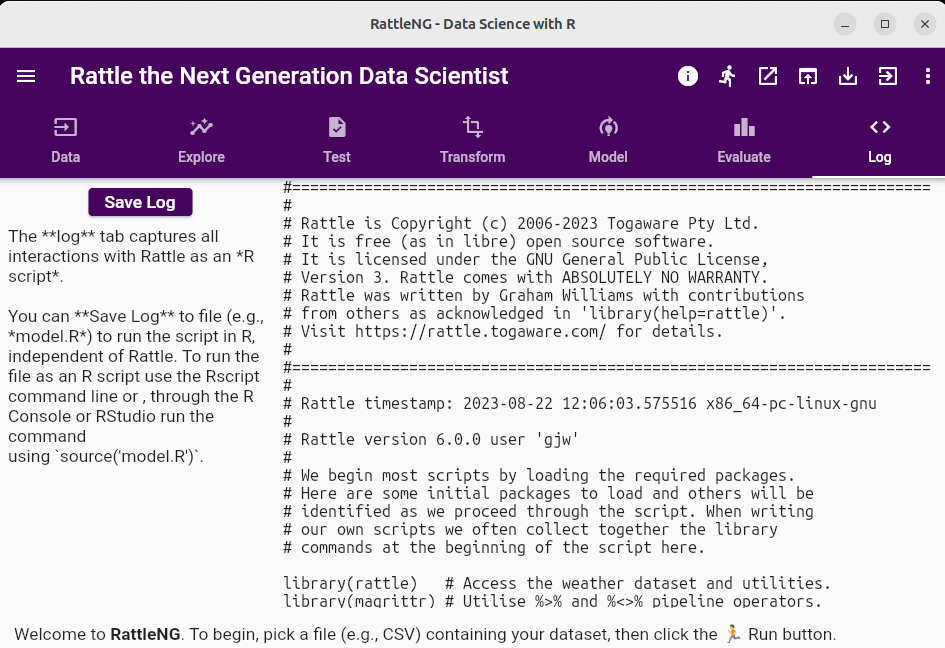
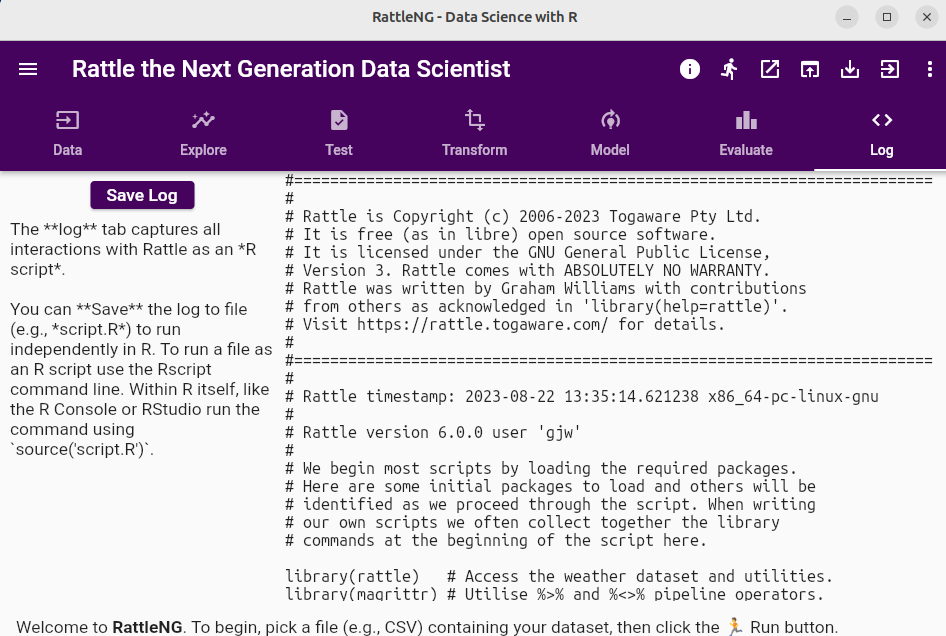
Updates to the README - more screenshots

diff --git a/lib/pages/data_tab.dart b/lib/pages/data_tab.dart
@@ -5,7 +5,7 @@
 /// License: https://www.gnu.org/licenses/gpl-3.0.en.html
 ///
 //
-// Time-stamp: <Monday 2023-08-21 19:35:10 +1000 Graham Williams>
+// Time-stamp: <Tuesday 2023-08-22 12:41:48 +1000 Graham Williams>
 //
 // Licensed under the GNU General Public License, Version 3 (the "License");
 //
@@ -56,6 +56,10 @@ class _DataTabPageState extends State<DataTabPage> {
         children: [
           Row(
             children: [
+              // Some fixed space so the widgets aren't crowded.
+
+              SizedBox(width: 5),
+
               // Widget to select the dataset filename.
 
               FilePickerDS(),

diff --git a/assets/markdown/log_intro.md b/assets/markdown/log_intro.md
@@ -1,6 +1,6 @@
 The **log** tab captures all interactions with Rattle as an *R script*.
 
-You can **Save Log** to file (e.g., *model.R*) to run the script in R,
-independent of Rattle. To run the file as an R script use the Rscript
-command line or , through the R Console or RStudio run the command
-using `source('model.R')`.
+You can **Save** the log to file (e.g., *script.R*) to run
+independently in R. To run a file as an R script use the Rscript
+command line. Within R itself, like the R Console or RStudio run the
+command using `source('script.R')`.

diff --git a/README.md b/README.md
@@ -10,6 +10,14 @@ be utilised in RattleNG for its powerful functionality.
 
 Some teasers:
 
-![](assets/screenshots/home_page.png)
+**The traditional Rattle Welcome**
+
+![](assets/screenshots/data_page.png)
+
+**Exploring Data Visually**
+
+![](assets/screenshots/explore_plot.png)
+
+**Everything Captured as Scripts**
 
 ![](assets/screenshots/log_page.png)
